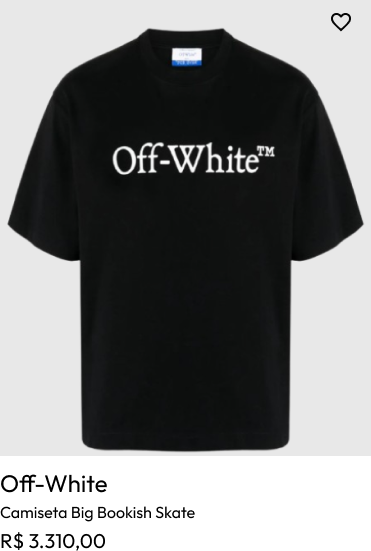
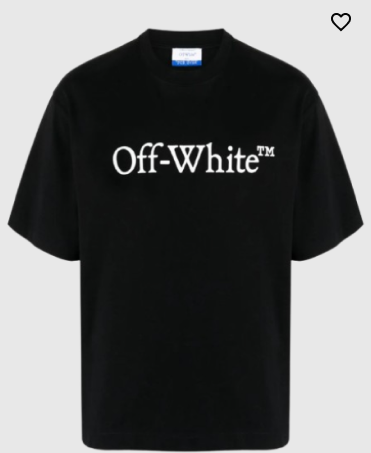
subindo

Changed region(s): [[0.0, 0.0309, 0.9784, 1.0], [0.2965, 0.2472, 0.7412, 0.4018], [0.8895, 0.0, 0.9488, 0.0618]]

diff --git a/Mode_Eclat_v1/pages/homem.html b/Mode_Eclat_v1/pages/homem.html
@@ -88,6 +88,43 @@
         <p class="product-name">Diesel</p>
         <p class="product-price">R$ 699,99</p>
       </div>
+
+      <div class="product-card" id="camisa5">
+        <div class="product-image-wrapper">
+          <img src="imagens/camisa5.png" alt="Produto 1" class="product-image">
+        </div>
+        <h3 class="product-brand">Camiseta Big Bookish Skate </h3>
+        <p class="product-name">Off-White</p>
+        <p class="product-price">R$ 849,80</p>
+      </div>
+
+      <div class="product-card" id="camisa6">
+        <div class="product-image-wrapper">
+          <img src="imagens/camisa6.png" alt="Produto 2" class="product-image">
+        </div>
+        <h3 class="product-brand">Paletó Pont Neuf de Lã </h3>
+        <p class="product-name">Louis  Vuitton</p>
+        <p class="product-price">R$ 769,90</p>
+      </div>
+
+      <div class="product-card" id="camisa7">
+        <div class="product-image-wrapper">
+          <img src="./imagens/camisa7.png" alt="Produto 3" class="product-image">
+        </div>
+        <h3 class="product-brand">Camisa de Algodão de Manga Longa</h3>
+        <p class="product-name">Louis Vuitton</p>
+        <p class="product-price">R$ 489,99</p>
+      </div>
+
+      <div class="product-card" id="camisa8">
+        <div class="product-image-wrapper">
+          <img src="./imagens/camisa8.png" alt="Produto 3" class="product-image">
+        </div>
+        <h3 class="product-brand">Camiseta com estampa de logo no busto</h3>
+        <p class="product-name">CasaBlanca</p>
+        <p class="product-price">R$ 899,50</p>
+      </div>
+      
       
     </div>
     <button class="view-more-button">Ver mais</button>
